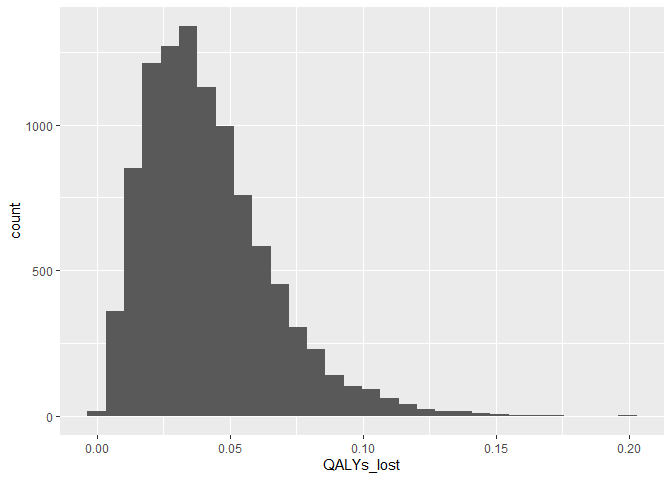
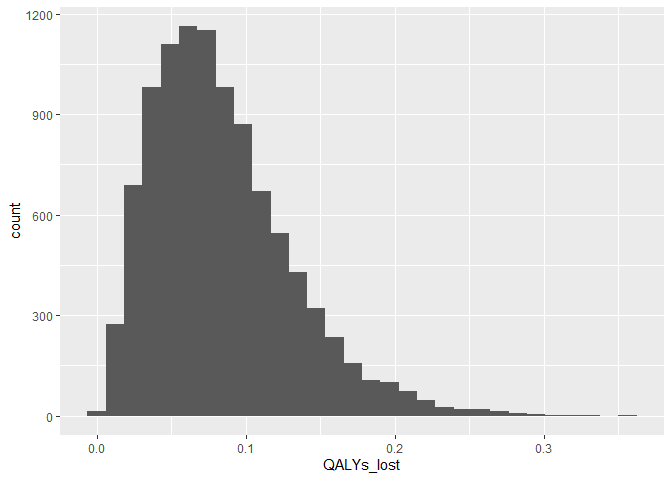
update inputs for qalys-lost distribution

diff --git a/demo-code/predictNMB-demo.md b/demo-code/predictNMB-demo.md
@@ -5,7 +5,7 @@ Rex Parsons
 
 - Falls leads to about 0.04 lost Quality-Adjusted Life Years (QALYs)
   (Latimer et al. 2013) and has an approximate beta distribution of:
-  $$\mathrm{B}(\alpha = 3.07, \beta = 70.01) \times 2$$  
+  $$\mathrm{B}(\alpha = 2.95, \beta = 32.25)$$  
 
 - There are also additional healthcare costs of about \$6669 (Morello et
   al. 2015) and follows an approximate gamma distribution of:
@@ -56,7 +56,7 @@ associated with a fall:
 ``` r
 library(ggplot2)
 
-data.frame(QALYs_lost = rbeta(10000, shape1 = 3.07, shape2 = 70.01)) |>
+data.frame(QALYs_lost = rbeta(10000, shape1 = 2.95, shape2 = 32.25)) |>
   ggplot(aes(x = QALYs_lost)) + 
   geom_histogram()
 ```
